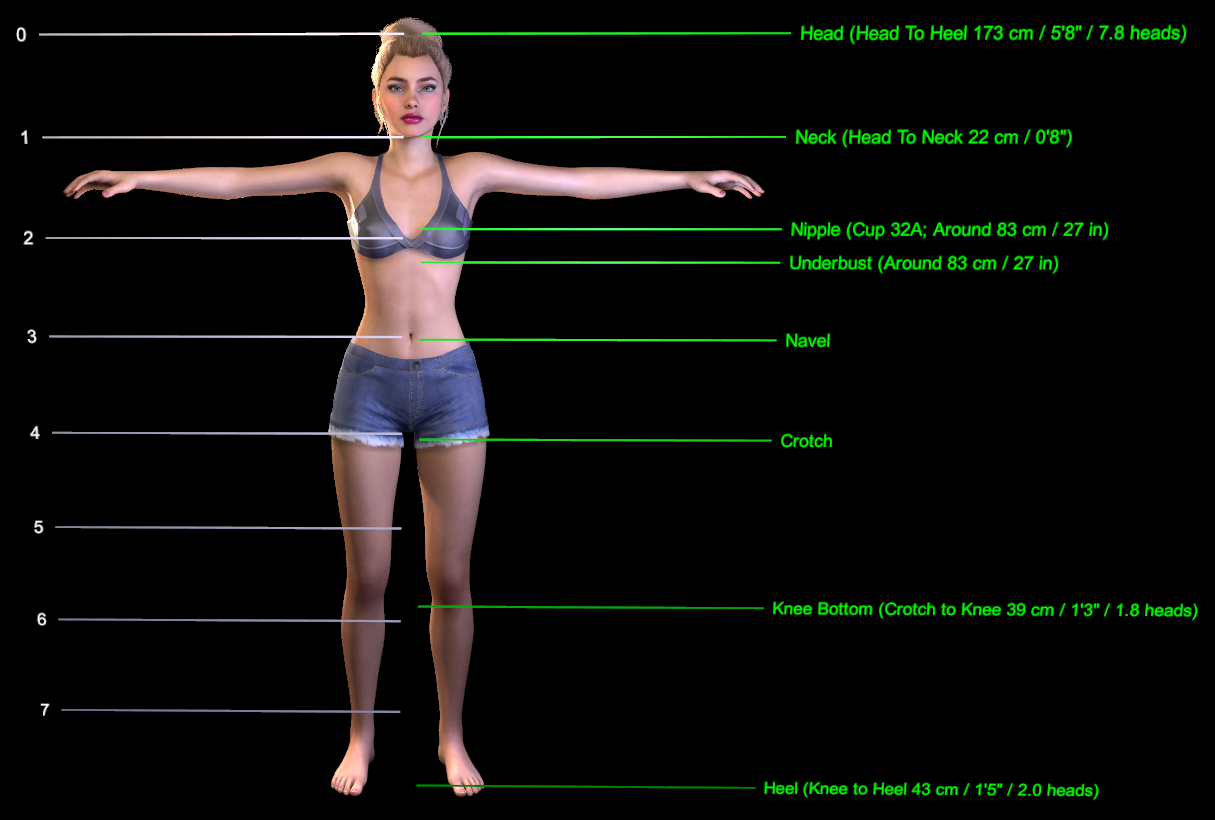
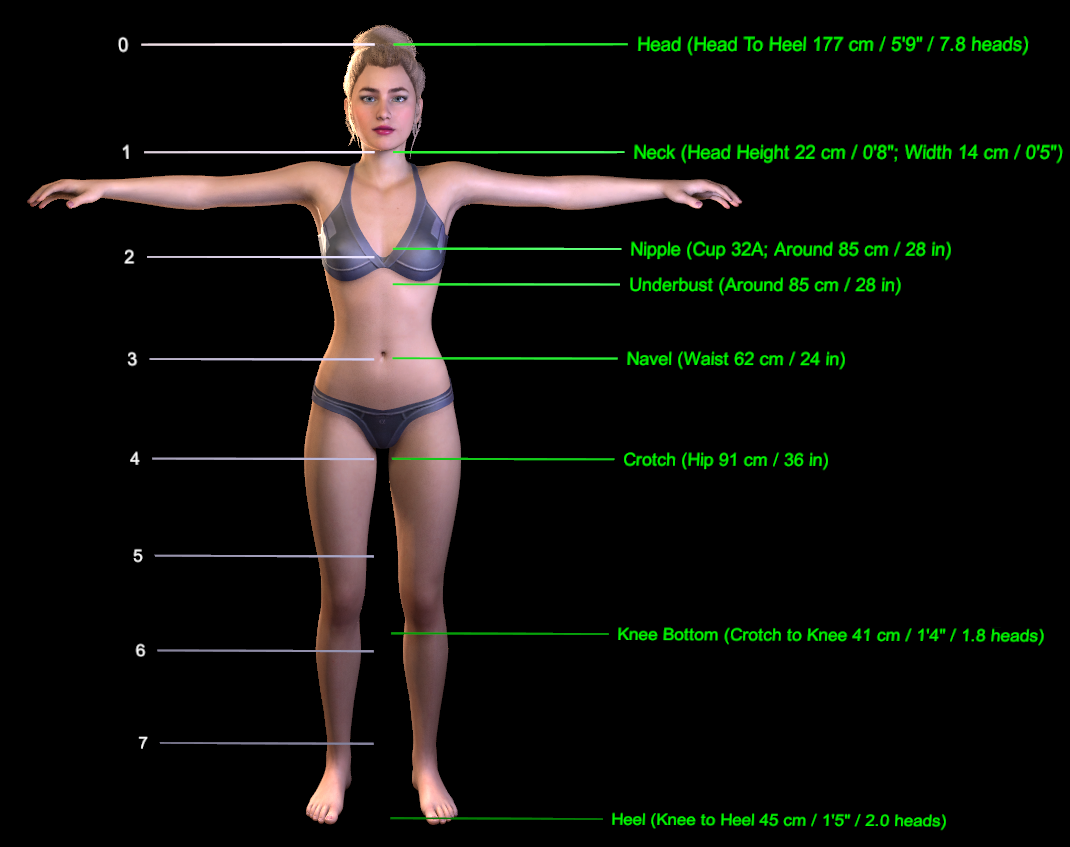
hip, waist, head width

diff --git a/HeightMeasurePlugin.cs b/HeightMeasurePlugin.cs
@@ -30,6 +30,27 @@ namespace LFE
             new VertexPositionExact(2100), // back
         };
 
+        readonly IVertexPosition[] _verticesWaist = new IVertexPosition[] {
+            new VertexPositionExact(8152), // front and center
+            new VertexPositionExact(19663), // front right 1
+            new VertexPositionExact(13675), // front right 2
+            new VertexPositionExact(13715), // front right 3
+            new VertexPositionExact(13727), // right side
+            new VertexPositionExact(13725), // back curve 1
+            new VertexPositionExact(2921), // back
+        };
+
+        readonly IVertexPosition[] _verticesHip = new IVertexPosition[] {
+            new VertexPositionExact(22843), // front and center
+            new VertexPositionExact(13750), // front right 1
+            new VertexPositionExact(18460), // front right 2
+            new VertexPositionMiddle(11234, 18491, 0.8f), // front right 3
+            new VertexPositionExact(18512), // right side
+            new VertexPositionExact(18529), // glute curve 1
+            new VertexPositionExact(18562), // glute curve 2
+            new VertexPositionMiddle(18562, 7878), // glute middle
+        };
+
         readonly IVertexPosition _vertexHead = new VertexPositionExact(2087);
         readonly IVertexPosition _vertexChin = new VertexPositionExact(2079);
         readonly IVertexPosition _vertexEarLeft = new VertexPositionExact(3236);
@@ -45,7 +66,7 @@ namespace LFE
         JSONStorableFloat _heightInHeadsStorable;
         JSONStorableFloat _markerLeftRightStorable;
         JSONStorableFloat _markerFrontBackStorable;
-        JSONStorableBool _showBreastMarkersStorable;
+        JSONStorableBool _showTapeMarkersStorable;
         JSONStorableBool _showHeadHeightMarkersStorable;
         JSONStorableBool _showFeatureMarkersStorable;
         JSONStorableBool _showFeatureMarkerLabelsStorable;
@@ -120,8 +141,8 @@ namespace LFE
             _markerFrontBackStorable = new JSONStorableFloat("Marker Front/Back", 0.15f, -1, 1);
             RegisterFloat(_markerFrontBackStorable);
 
-            _showBreastMarkersStorable = new JSONStorableBool("Show Breast Measure Markers", false);
-            RegisterBool(_showBreastMarkersStorable);
+            _showTapeMarkersStorable = new JSONStorableBool("Show Tape Measure Markers", false);
+            RegisterBool(_showTapeMarkersStorable);
 
             _showHeadHeightMarkersStorable = new JSONStorableBool("Show Head Height Markers", true);
             RegisterBool(_showHeadHeightMarkersStorable);
@@ -145,7 +166,7 @@ namespace LFE
             CreateScrollablePopup(_cupAlgorithmStorable);
             CreateSlider(_markerLeftRightStorable, rightSide: true);
             CreateSlider(_markerFrontBackStorable, rightSide: true);
-            CreateToggle(_showBreastMarkersStorable);
+            CreateToggle(_showTapeMarkersStorable);
             CreateToggle(_showHeadHeightMarkersStorable);
             CreateToggle(_showFeatureMarkersStorable);
             CreateToggle(_showFeatureMarkerLabelsStorable);
@@ -166,6 +187,16 @@ namespace LFE
                 Destroy(h);
             }
             _underbustMarkersFromMorph = new List<GameObject>();
+
+            foreach(var h in _waistMarkersFromMorph) {
+                Destroy(h);
+            }
+            _waistMarkersFromMorph = new List<GameObject>();
+
+            foreach(var h in _hipMarkersFromMorph) {
+                Destroy(h);
+            }
+            _hipMarkersFromMorph = new List<GameObject>();
         }
 
         public void Update() {
@@ -252,6 +283,8 @@ namespace LFE
                     UpdateBustMarkersFromMorphVertex();
                     UpdateUnderbustMarkersFromMorphVertex();
                 }
+                UpdateWaistMarkersFromMorphVertex();
+                UpdateHipMarkersFromMorphVertex();
 
                 _fullHeightStorable.val = GetHeight();
                 _headHeightStorable.val = GetHeadHeight();
@@ -259,9 +292,10 @@ namespace LFE
                 var cupInfo = GetCupInfo();
                 var crotchToKnee = Vector3.Distance(_markerGroin.Origin, _markerKnee.Origin);
                 var kneeToHeel = Vector3.Distance(_markerKnee.Origin, _markerHeel.Origin);
+                var headWidth = GetHeadWidth();
 
                 _markerHead.Label = $"Head (Head To Heel {(int)(_fullHeightStorable.val * 100)} cm / {UnitUtils.FeetInchString(UnitUtils.UnityToFeet(_fullHeightStorable.val))} / {_heightInHeadsStorable.val:0.0} heads)";
-                _markerChin.Label = $"Neck (Head To Neck {(int)(_headHeightStorable.val * 100)} cm / {UnitUtils.FeetInchString(UnitUtils.UnityToFeet(_headHeightStorable.val))})";
+                _markerChin.Label = $"Neck (Head Height {(int)(_headHeightStorable.val * 100)} cm / {UnitUtils.FeetInchString(UnitUtils.UnityToFeet(_headHeightStorable.val))}; Width {(int)(headWidth * 100)} cm / {UnitUtils.FeetInchString(UnitUtils.UnityToFeet(headWidth))})";
                 if(cupInfo == null) {
                     _markerNipple.Label = "Nipple";
                     _markerUnderbust.Label = "Underbust";
@@ -270,8 +304,8 @@ namespace LFE
                     _markerNipple.Label = $"Nipple (Cup {cupInfo}; Around {cupInfo.BustToCentimeters} cm / {cupInfo.BustToInches} in)";
                     _markerUnderbust.Label = $"Underbust (Around {cupInfo.UnderbustToCentimeters} cm / {cupInfo.UnderbustToInches} in)";
                 }
-                _markerNavel.Label = "Navel";
-                _markerGroin.Label = $"Crotch";
+                _markerNavel.Label = $"Navel (Waist {(int)(_circumferenceWaist * 100)} cm / {Mathf.RoundToInt(UnitUtils.UnityToFeet(_circumferenceWaist) * 12)} in)";
+                _markerGroin.Label = $"Crotch (Hip {(int)(_circumferenceHip * 100)} cm / {Mathf.RoundToInt(UnitUtils.UnityToFeet(_circumferenceHip) * 12)} in)";
                 _markerKnee.Label = $"Knee Bottom (Crotch to Knee {(int)(crotchToKnee * 100)} cm / {UnitUtils.FeetInchString(UnitUtils.UnityToFeet(crotchToKnee))} / {crotchToKnee / _headHeightStorable.val:0.0} heads)";
                 _markerHeel.Label = $"Heel (Knee to Heel {(int)(kneeToHeel * 100)} cm / {UnitUtils.FeetInchString(UnitUtils.UnityToFeet(kneeToHeel))} / {kneeToHeel / _headHeightStorable.val:0.0} heads)";
             }
@@ -299,7 +333,7 @@ namespace LFE
                 return;
             }
 
-            if(_showBreastMarkersStorable.val) {
+            if(_showTapeMarkersStorable.val) {
                 if(_bustMarkersFromMorph.Count != _verticesBust.Length)
                 {
                     foreach(var m in _bustMarkersFromMorph) {
@@ -333,7 +367,7 @@ namespace LFE
                 return;
             }
 
-            if(_showBreastMarkersStorable.val){
+            if(_showTapeMarkersStorable.val){
                 if(_underbustMarkersFromMorph.Count != _verticesUnderbust.Length) {
                     foreach(var m in _underbustMarkersFromMorph) {
                         Destroy(m);
@@ -358,12 +392,80 @@ namespace LFE
             _circumferenceUnderbust = LineLength(_verticesUnderbust.Select(v => v.Position(this)).ToArray()) * 2;
         }
 
+        List<GameObject> _waistMarkersFromMorph = new List<GameObject>();
+        float _circumferenceWaist = 0;
+        private void UpdateWaistMarkersFromMorphVertex() {
+            if(Skin == null) {
+                return;
+            }
+
+            if(_showTapeMarkersStorable.val){
+                if(_waistMarkersFromMorph.Count != _verticesWaist.Length) {
+                    foreach(var m in _waistMarkersFromMorph) {
+                        Destroy(m);
+                    }
+                    _waistMarkersFromMorph.Clear();
+                    foreach(var m in _verticesWaist){
+                        _waistMarkersFromMorph.Add(CreateMarker(Color.white));
+                    }
+                }
+
+                for(var i = 0; i < _verticesWaist.Length; i++) {
+                    _waistMarkersFromMorph[i].transform.position = _verticesWaist[i].Position(this);
+                }
+            }
+            else {
+                foreach(var m in _waistMarkersFromMorph) {
+                    Destroy(m);
+                }
+                _waistMarkersFromMorph.Clear();
+            }
+
+            _circumferenceWaist = LineLength(_verticesWaist.Select(v => v.Position(this)).ToArray()) * 2;
+        }
+
+        List<GameObject> _hipMarkersFromMorph = new List<GameObject>();
+        float _circumferenceHip = 0;
+        private void UpdateHipMarkersFromMorphVertex() {
+            if(Skin == null) {
+                return;
+            }
+
+            if(_showTapeMarkersStorable.val){
+                if(_hipMarkersFromMorph.Count != _verticesHip.Length) {
+                    foreach(var m in _hipMarkersFromMorph) {
+                        Destroy(m);
+                    }
+                    _hipMarkersFromMorph.Clear();
+                    foreach(var m in _verticesHip){
+                        _hipMarkersFromMorph.Add(CreateMarker(Color.white));
+                    }
+                }
+
+                for(var i = 0; i < _verticesHip.Length; i++) {
+                    _hipMarkersFromMorph[i].transform.position = _verticesHip[i].Position(this);
+                }
+            }
+            else {
+                foreach(var m in _hipMarkersFromMorph) {
+                    Destroy(m);
+                }
+                _hipMarkersFromMorph.Clear();
+            }
+
+            _circumferenceHip = LineLength(_verticesHip.Select(v => v.Position(this)).ToArray()) * 2;
+        }
+
         private float GetHeight() {
             return Vector3.Distance(_markerHead.Origin, _markerHeel.Origin);
         }
 
         private float GetHeadHeight() {
             return Vector3.Distance(_markerHead.Origin, _markerChin.Origin);
+        }
+        
+        private float GetHeadWidth() {
+            return Vector3.Distance(_vertexEarLeft.Position(this), _vertexEarRight.Position(this));
         }
 
         private float GetHeightInHeads() {
@@ -616,7 +718,7 @@ namespace LFE
         public string Name { get; set; } = "Name";
         public string Label { get; set; }
         public Color Color { get; set; } = Color.green;
-        public float Length { get; set; } = 0.8f;
+        public float Length { get; set; } = 0.5f;
         public Vector3 Origin { get; set; } = Vector3.zero;
         public Vector3 LineDirection { get; set; } = Vector3.left;
         public bool Enabled { get; set; } = true;
@@ -650,7 +752,8 @@ namespace LFE
                 CalculateEndpoint(Origin)
             });
             _lineRenderer.gameObject.SetActive(Enabled);
-            _canvas.gameObject.SetActive(Enabled);
+            // SuperController.LogMessage($"{_lineRenderer.gameObject.layer} - {_canvas.gameObject.layer}");
+            _canvas.gameObject.SetActive(_lineRenderer.gameObject.activeInHierarchy);
             if(Enabled) {
                 var text = _canvas.GetComponentInChildren<Text>();
                 if(text) {
@@ -705,7 +808,7 @@ namespace LFE
             cs.scaleFactor = 80.0f;
             cs.dynamicPixelsPerUnit = 1f;
 
-            GraphicRaycaster gr = canvasObject.AddComponent<GraphicRaycaster>();
+            // GraphicRaycaster gr = canvasObject.AddComponent<GraphicRaycaster>();
             _canvas.transform.localScale = new Vector3(0.002f, 0.002f, 0.002f);
             //canvas.transform.localPosition = new Vector3(-0.7f, 0, 0);
             _canvas.transform.localPosition = new Vector3(0.26f, -0.14f, 0.0f);
